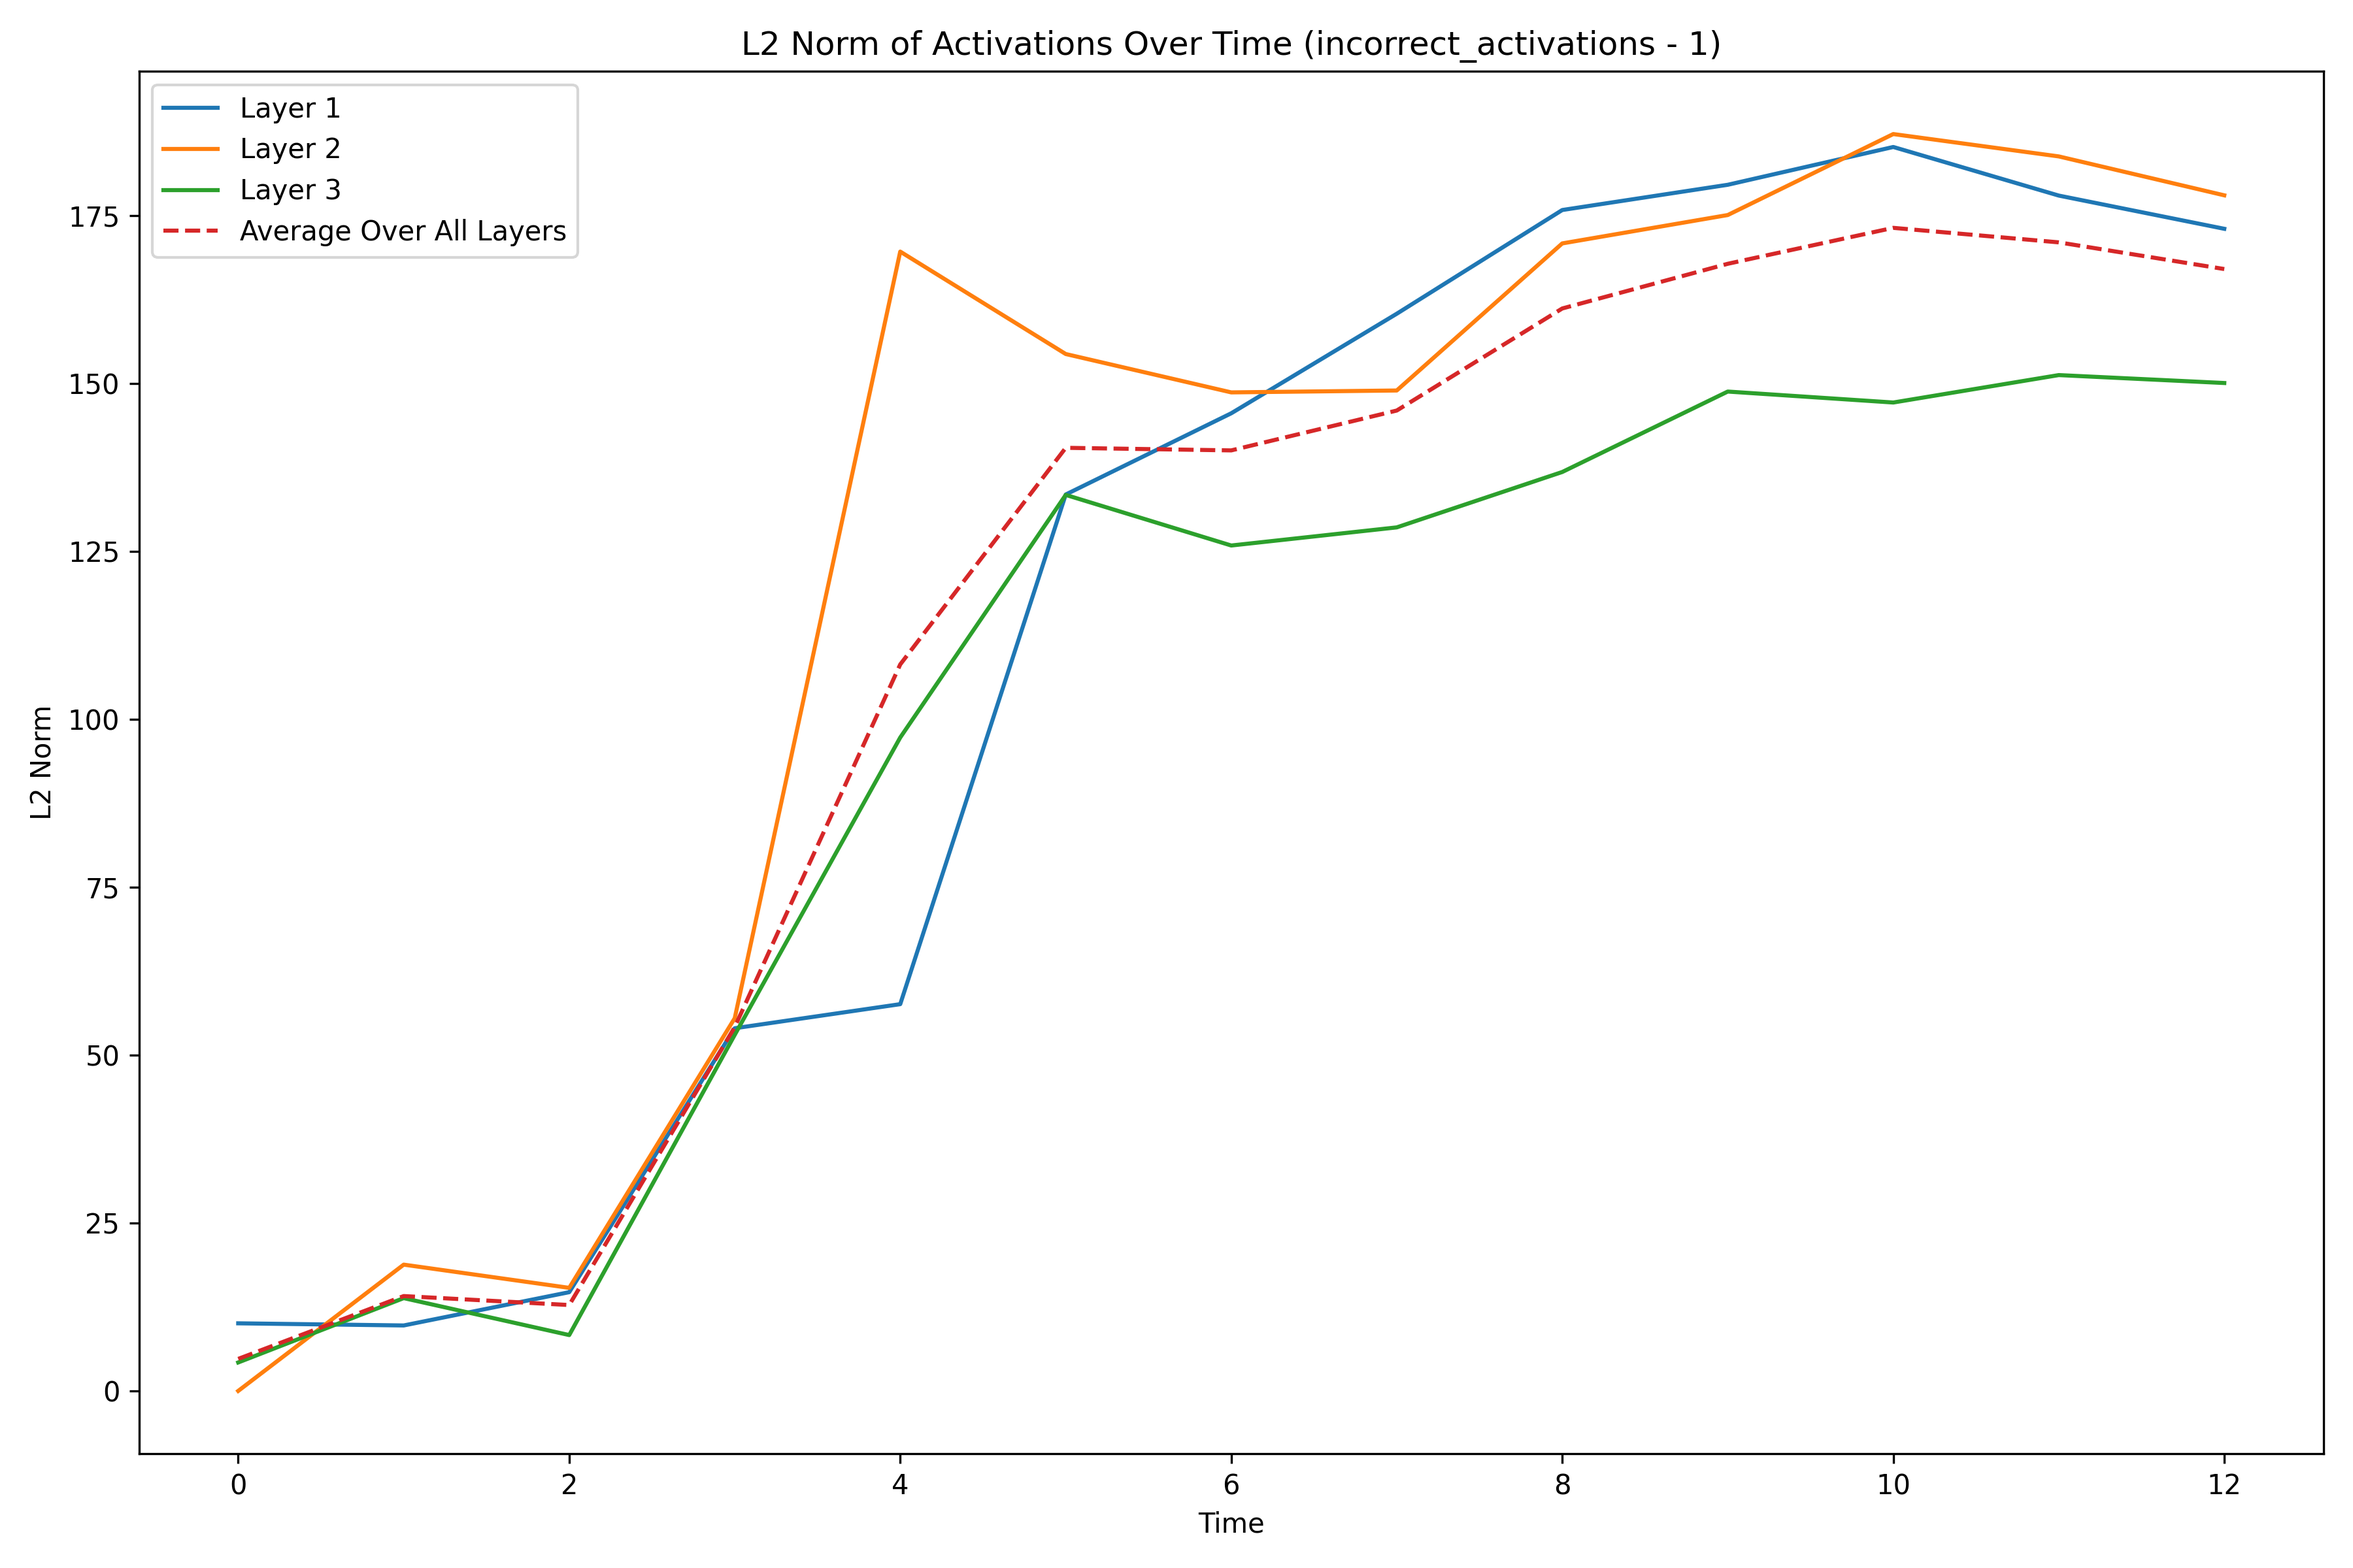
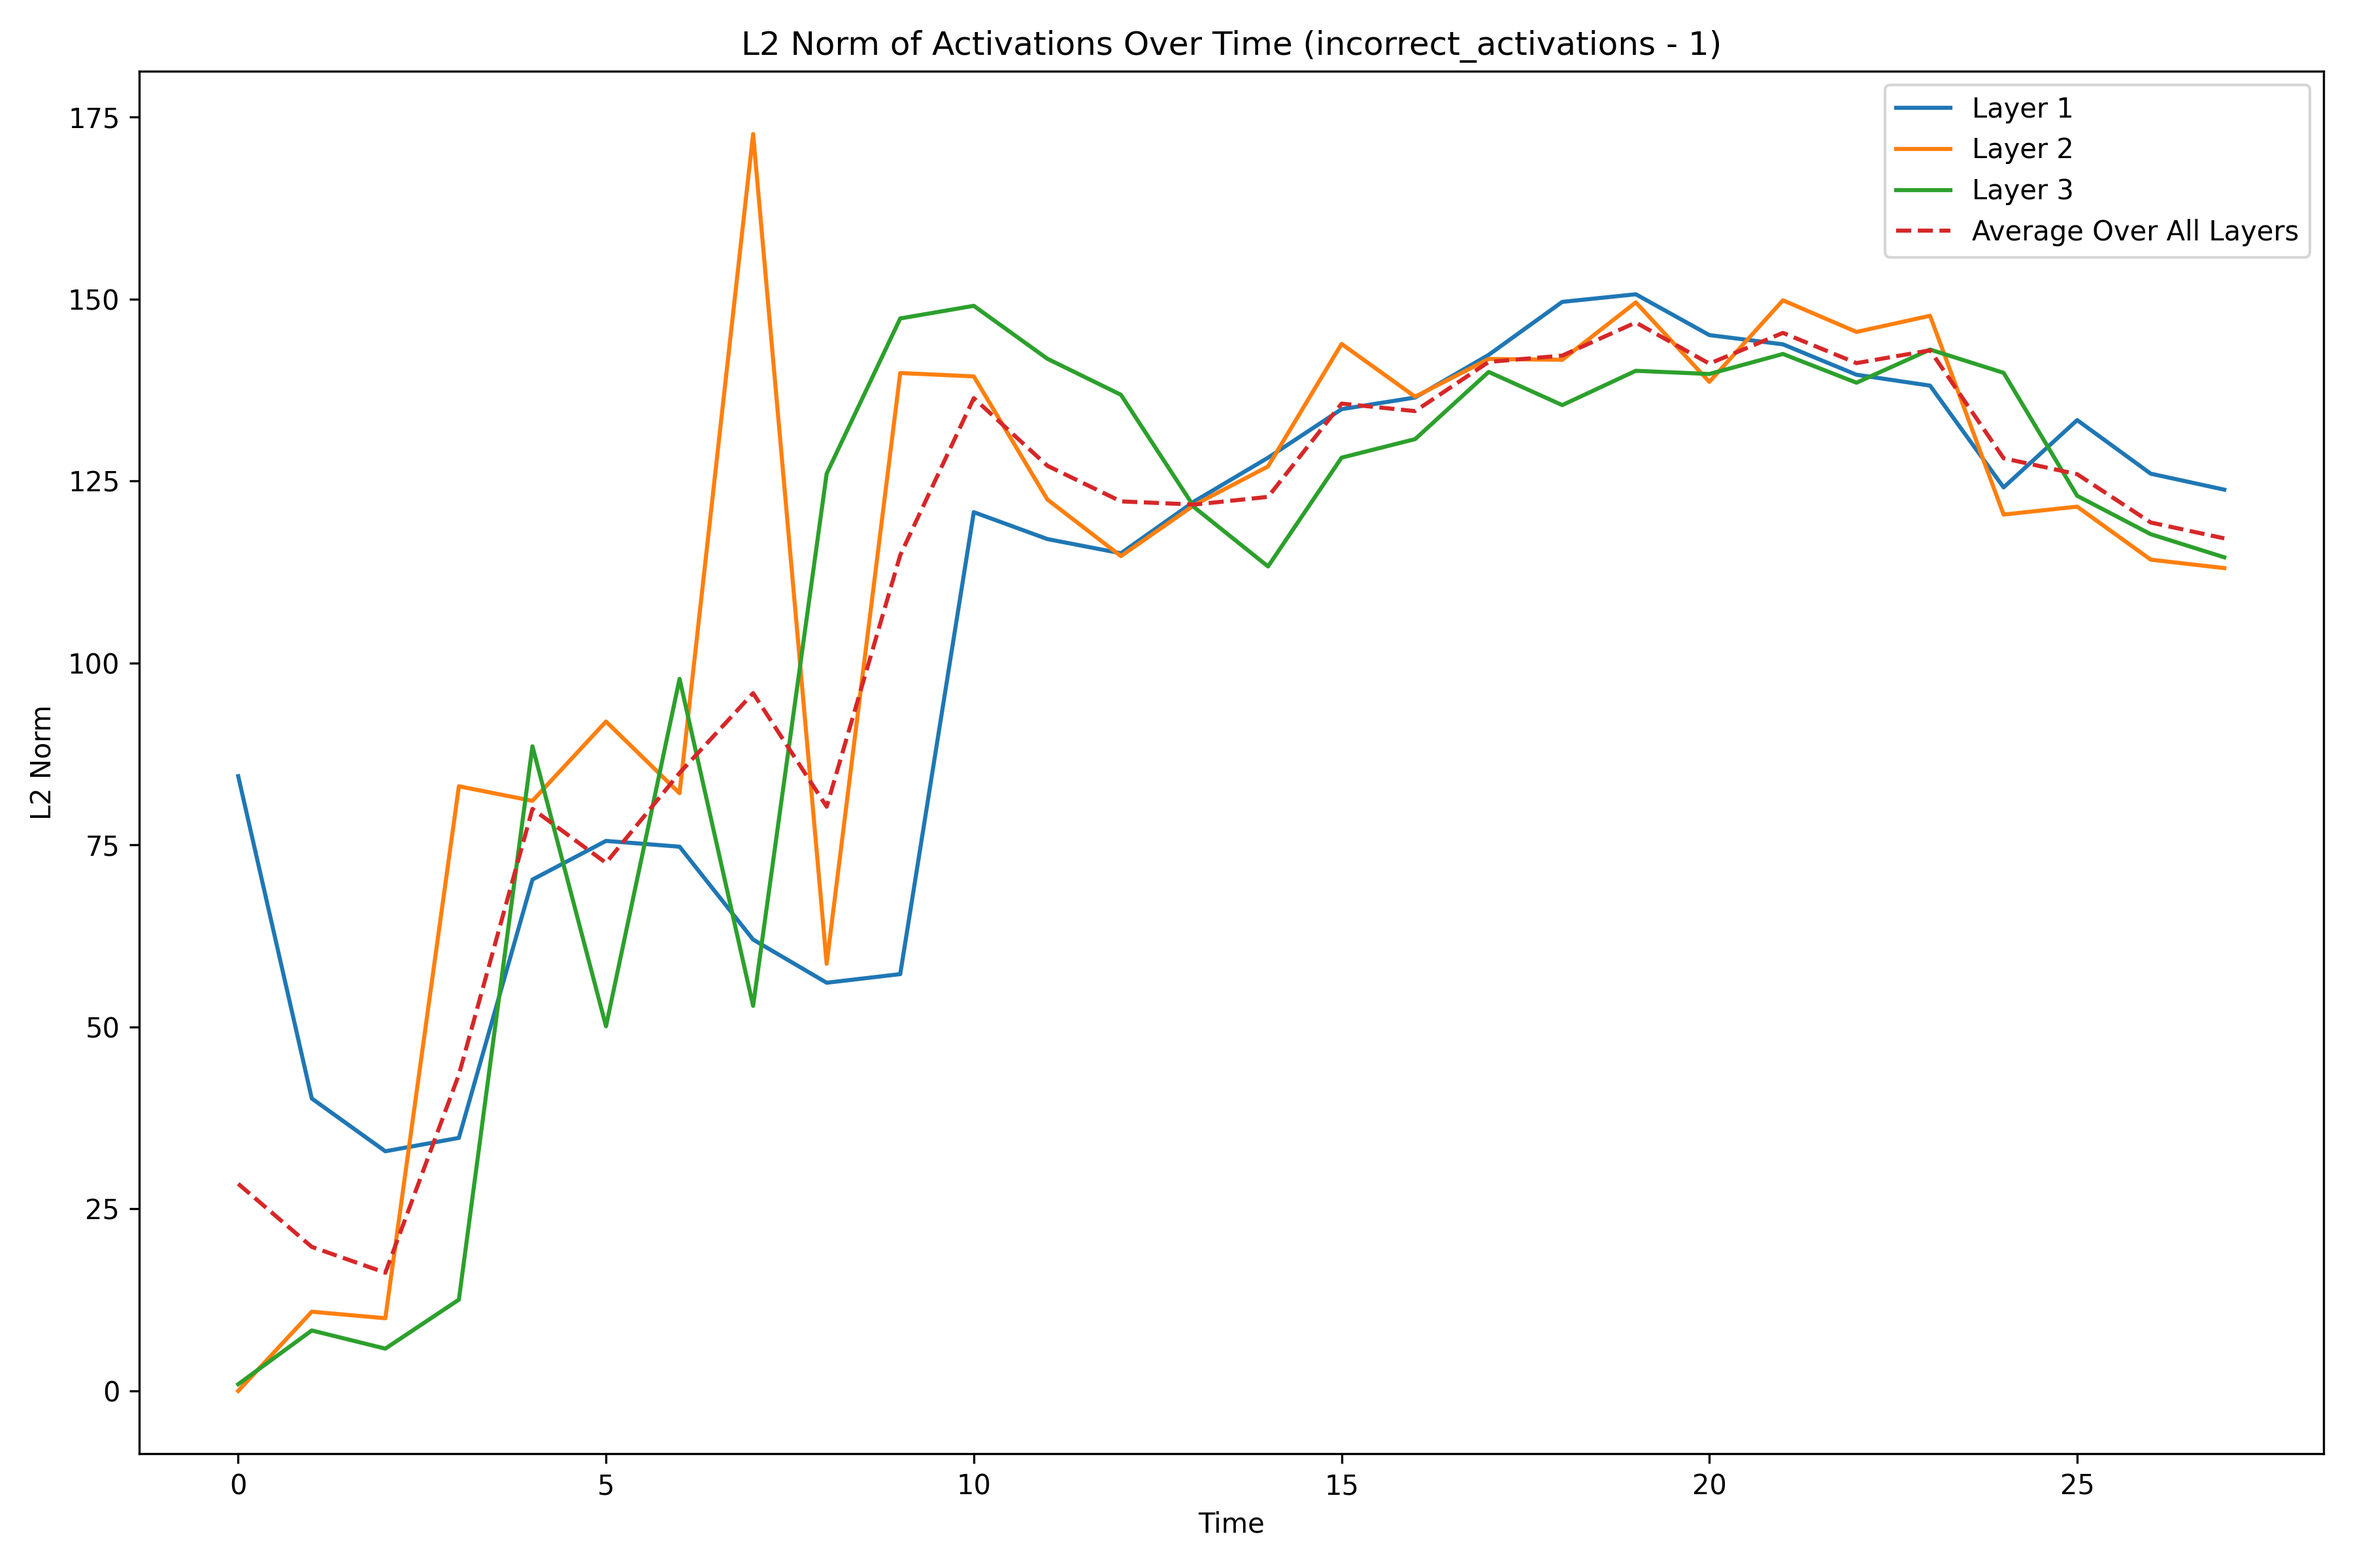
img

diff --git a/RecurrentFF/benchmarks/mnist/visualize_activations.py b/RecurrentFF/benchmarks/mnist/visualize_activations.py
@@ -8,6 +8,29 @@ BASE_PATH = "./img/activation_heatmaps"
 SCENARIOS = ["incorrect_activations", "correct_activations"]
 FILENAMES = ["test_sample_1.pt", "test_sample_2.pt"]
 
+# Additional function to plot the digit
+
+
+def plot_digit():
+    for filename in FILENAMES:
+        identifier = filename.split(".")[0].split("_")[-1]
+        tensors = torch.load(filename)
+
+        data = tensors["data"]
+
+        # Ensure the tensor is in CPU and convert it to numpy for visualization
+        data_numpy = data.cpu().numpy()
+
+        # Reshape the data into a square shape
+        side_length = int(data_numpy.size**0.5)
+        data_square = data_numpy.reshape(side_length, side_length)
+
+        # Plot the digit
+        plt.imshow(data_square, cmap='gray')
+        plt.axis('off')  # Turn off axis numbers and ticks
+        plt.savefig(f"{BASE_PATH}/digit_{identifier}.png", dpi=300)
+        plt.close()
+
 
 def plot_mean_stddev():
     running_sum_activations = None
@@ -323,8 +346,9 @@ def plot_activation_percentiles_over_time(percentiles=[10, 25, 50, 75, 90]):
 
 
 if __name__ == "__main__":
-    plot_mean_stddev()
-    plot_activations_over_timesteps()
-    plot_activations_over_time()
-    plot_sparsity_over_time()
-    plot_activation_percentiles_over_time()
+    plot_digit()
+    # plot_mean_stddev()
+    # plot_activations_over_timesteps()
+    # plot_activations_over_time()
+    # plot_sparsity_over_time()
+    # plot_activation_percentiles_over_time()

diff --git a/RecurrentFF/model/data_scenario/static_single_class.py b/RecurrentFF/model/data_scenario/static_single_class.py
@@ -294,12 +294,12 @@ class StaticSingleClassProcessor(DataScenarioProcessor):
 
         forward_mode = ForwardMode.PredictData if is_test_set else ForwardMode.PositiveData
 
+        # tuple: (correct, total)
+        accuracy_contexts = []
+
         for batch, test_data in enumerate(loader):
             if limit_batches is not None and batch == limit_batches:
                 break
-
-            # tuple: (correct, total)
-            accuracy_contexts = []
 
             with torch.no_grad():
                 data, labels = test_data
@@ -394,6 +394,7 @@ class StaticSingleClassProcessor(DataScenarioProcessor):
 
                 accuracy_contexts.append((correct, total))
 
+        print(accuracy_contexts)
         total_correct = sum(correct for correct, _total in accuracy_contexts)
         total_submissions = sum(
             total for _correct, total in accuracy_contexts)

diff --git a/RecurrentFF/benchmarks/mnist/collect_activations.py b/RecurrentFF/benchmarks/mnist/collect_activations.py
@@ -6,8 +6,8 @@ from RecurrentFF.util import set_logging
 from RecurrentFF.model.model import RecurrentFFNet
 from RecurrentFF.settings import Settings, DataConfig
 
-TEST_BATCH_SIZE = 1000
-NUM_BATCHES = 1
+TEST_BATCH_SIZE = 1
+NUM_BATCHES = 3
 
 if __name__ == "__main__":
     settings = Settings.new()
@@ -38,7 +38,7 @@ if __name__ == "__main__":
     model = RecurrentFFNet(settings).to(settings.device.device)
 
     model.load_state_dict(torch.load(
-        "Moving-MNIST_2023-09-09_01-47-14_YUS9YP.pth"))
+        "Moving-MNIST_2023-09-09_01-12-31_W25KUR.pth", map_location=torch.device('cpu')))
 
     model.predict(DataScenario.StaticSingleClass,
-                  test_loader, NUM_BATCHES, write_activations=False)
+                  test_loader, NUM_BATCHES, write_activations=True)
